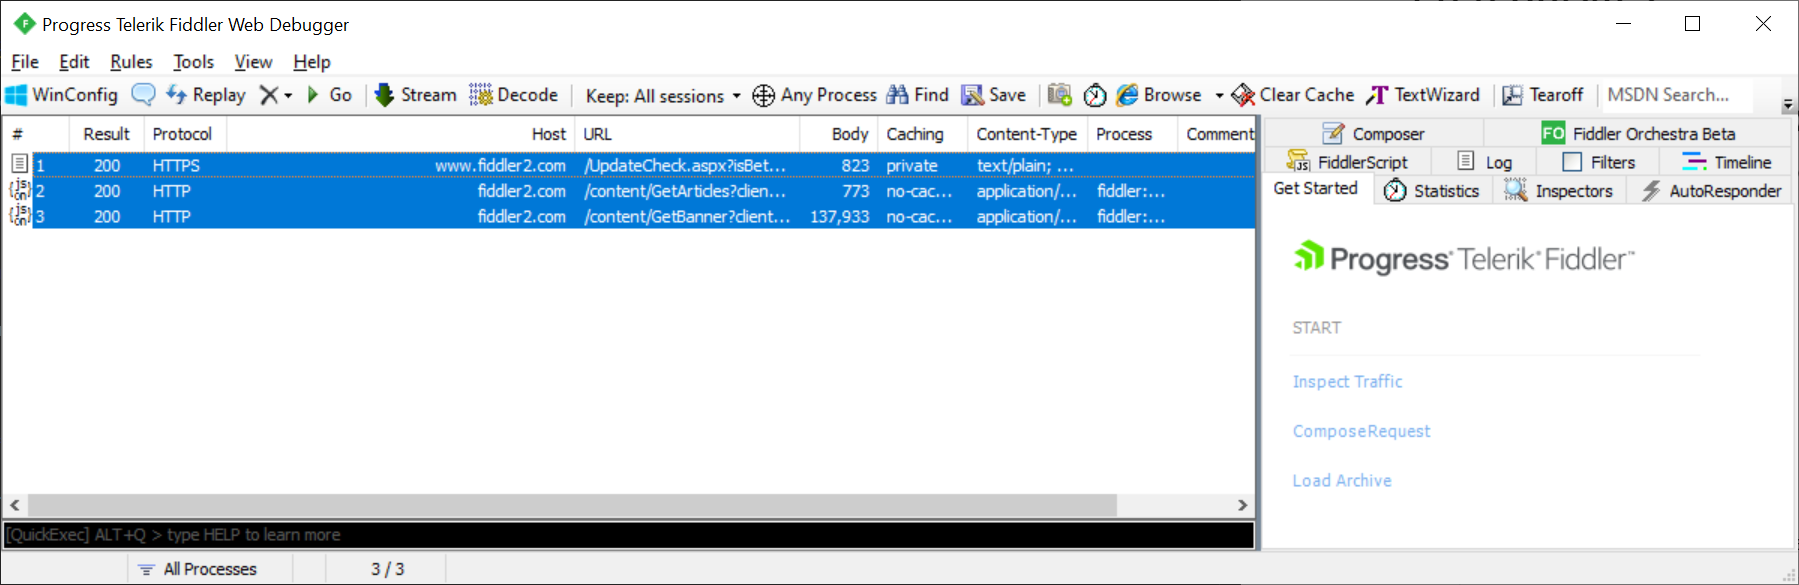
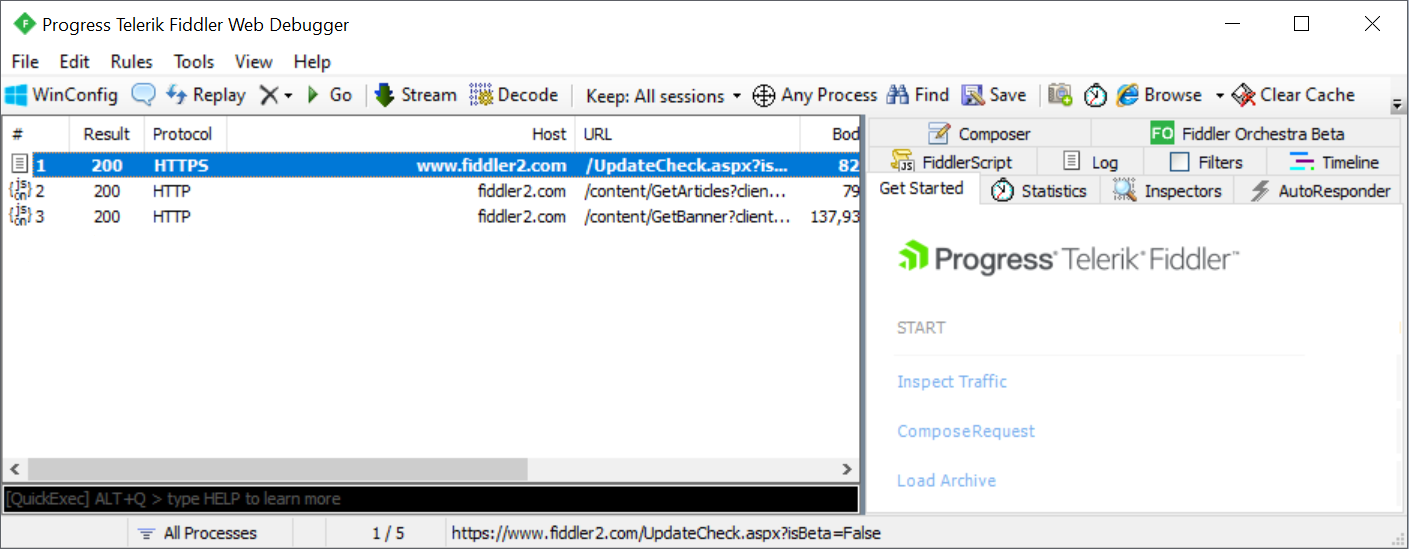
Fixed clear screen step, replaced image

Changed region(s): [[0.0, 0.0, 1.0, 1.0], [0.0, 0.0, 0.2498, 0.0619]]

diff --git a/powerquery-docs/web-connection-fiddler.md b/powerquery-docs/web-connection-fiddler.md
@@ -46,7 +46,7 @@ To set up Fiddler to capture secure HTTP addresses:
 
 10. In the Fiddler traffic pane, select one of the current traces, and then press **Ctrl + X**. This action clears all of the current traces from the traffic pane.
 
-    ![On your keyboard, press Ctrl + A, then delete to clear all traces from the traffic pane](./media/web-connection-fiddler/clear-fiddler-pane.png)
+    ![On your keyboard, press Ctrl + X to clear all traces from Fiddler's traffic pane](./media/web-connection-fiddler/clear-fiddler-pane.png)
 
 ## Guidelines for capturing web requests
 
